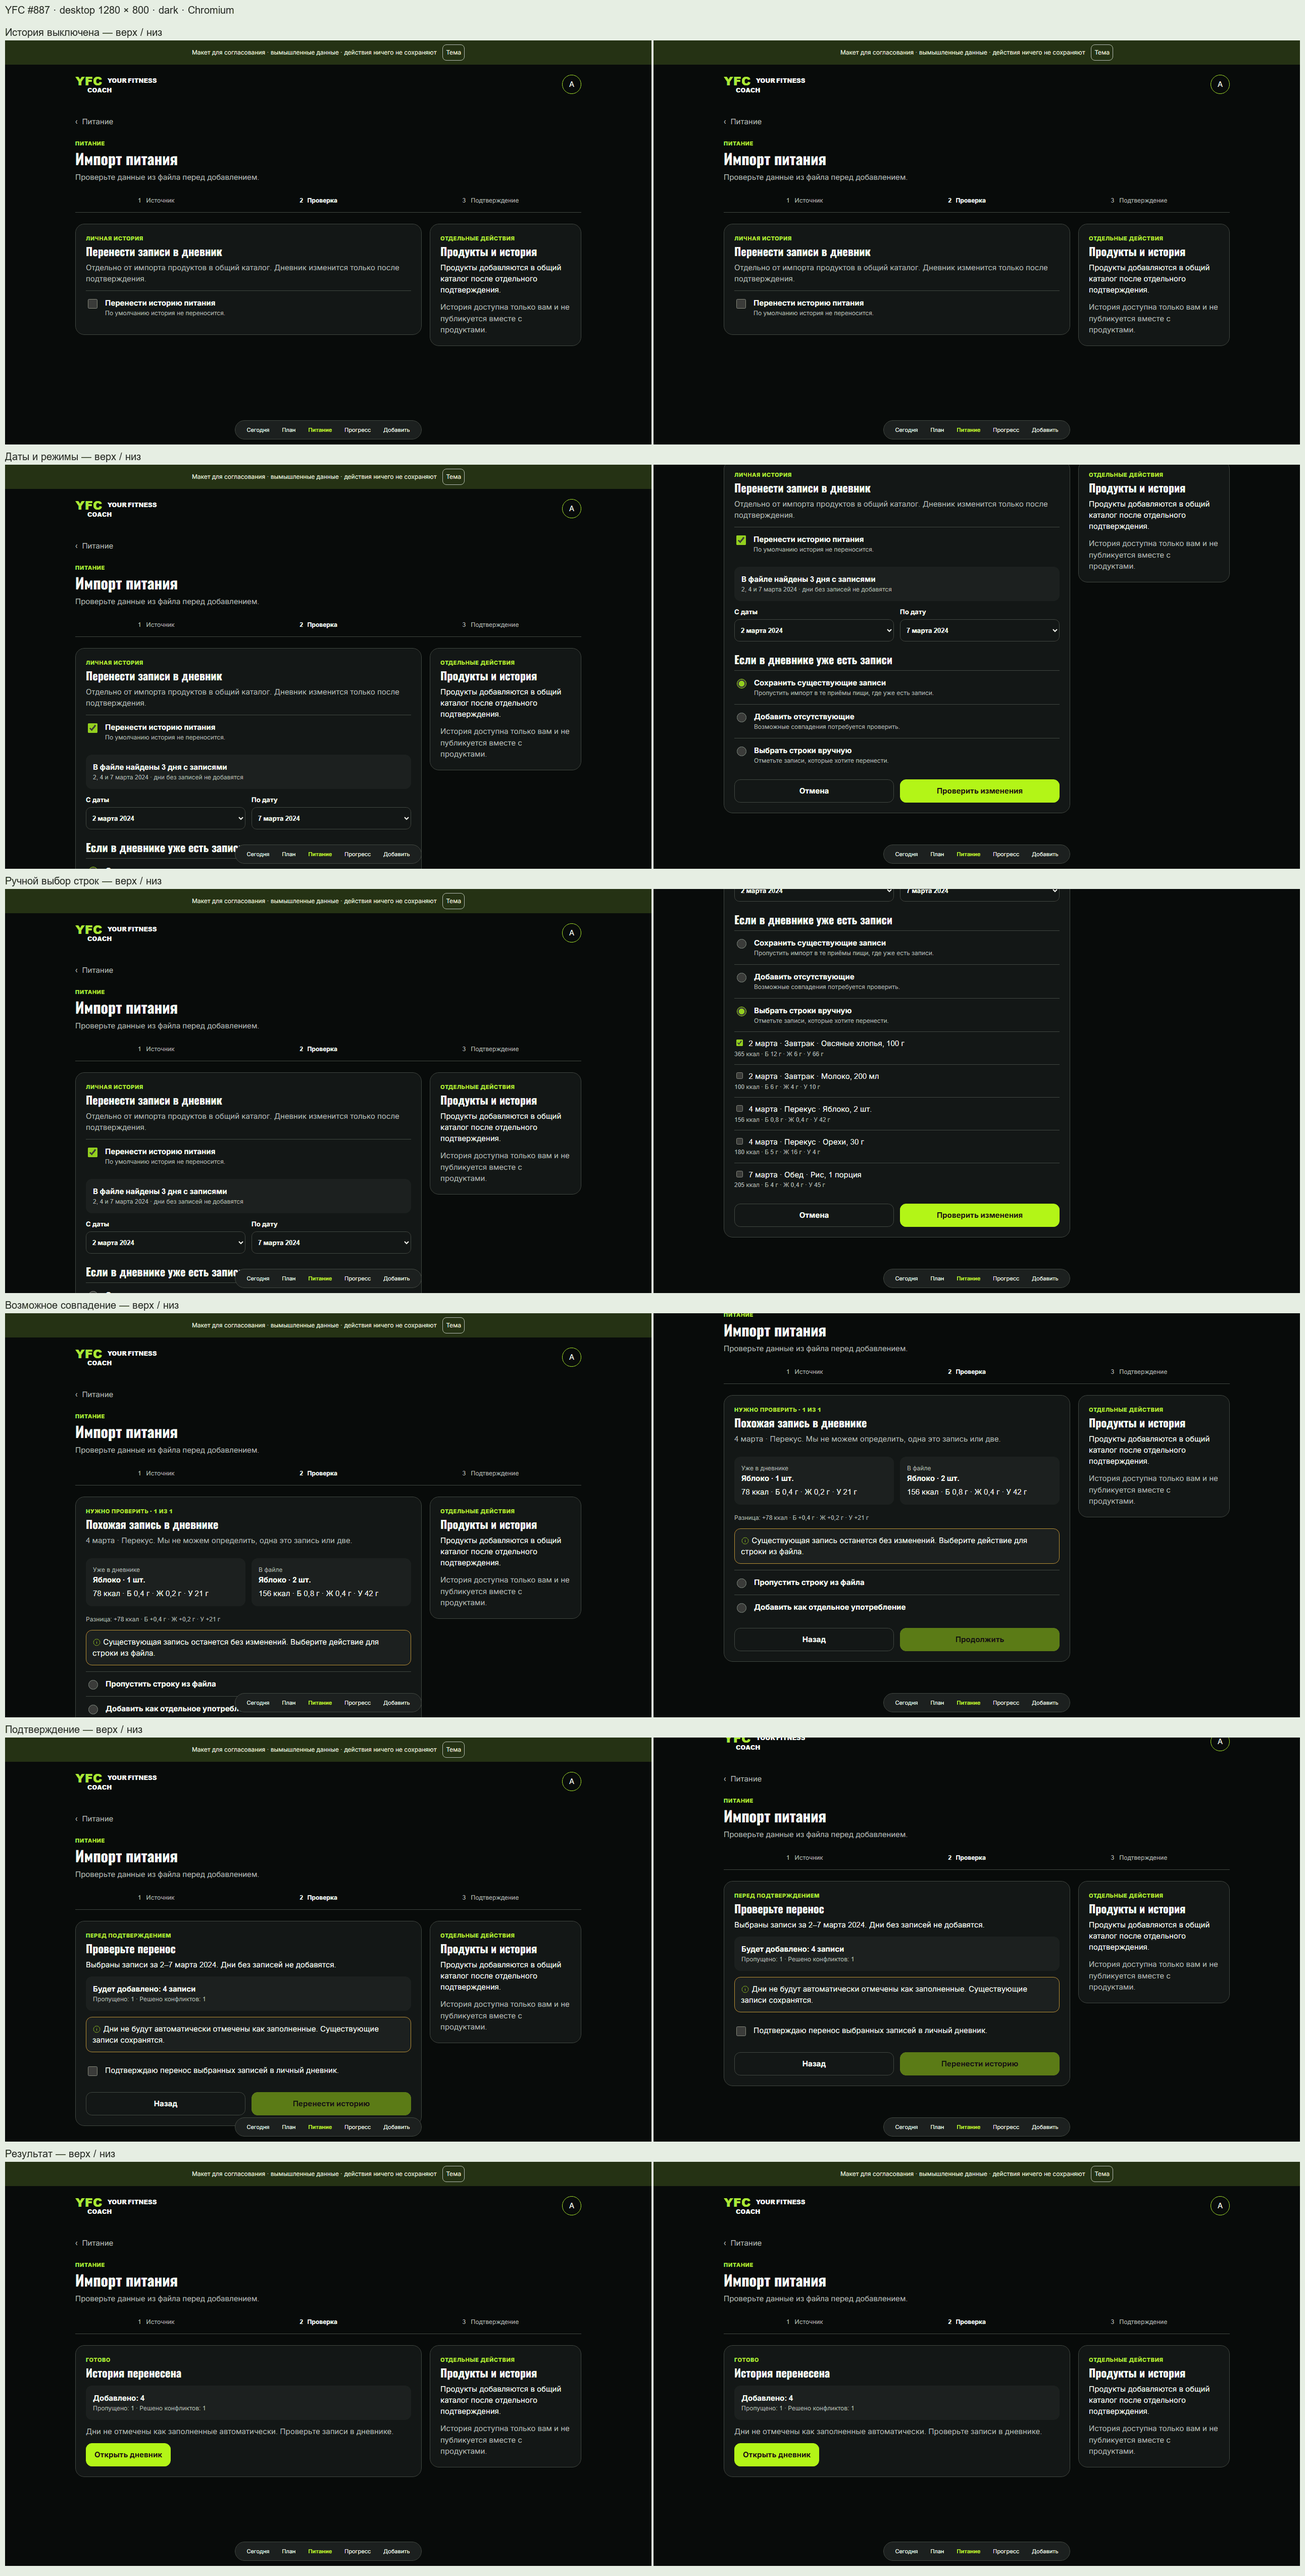
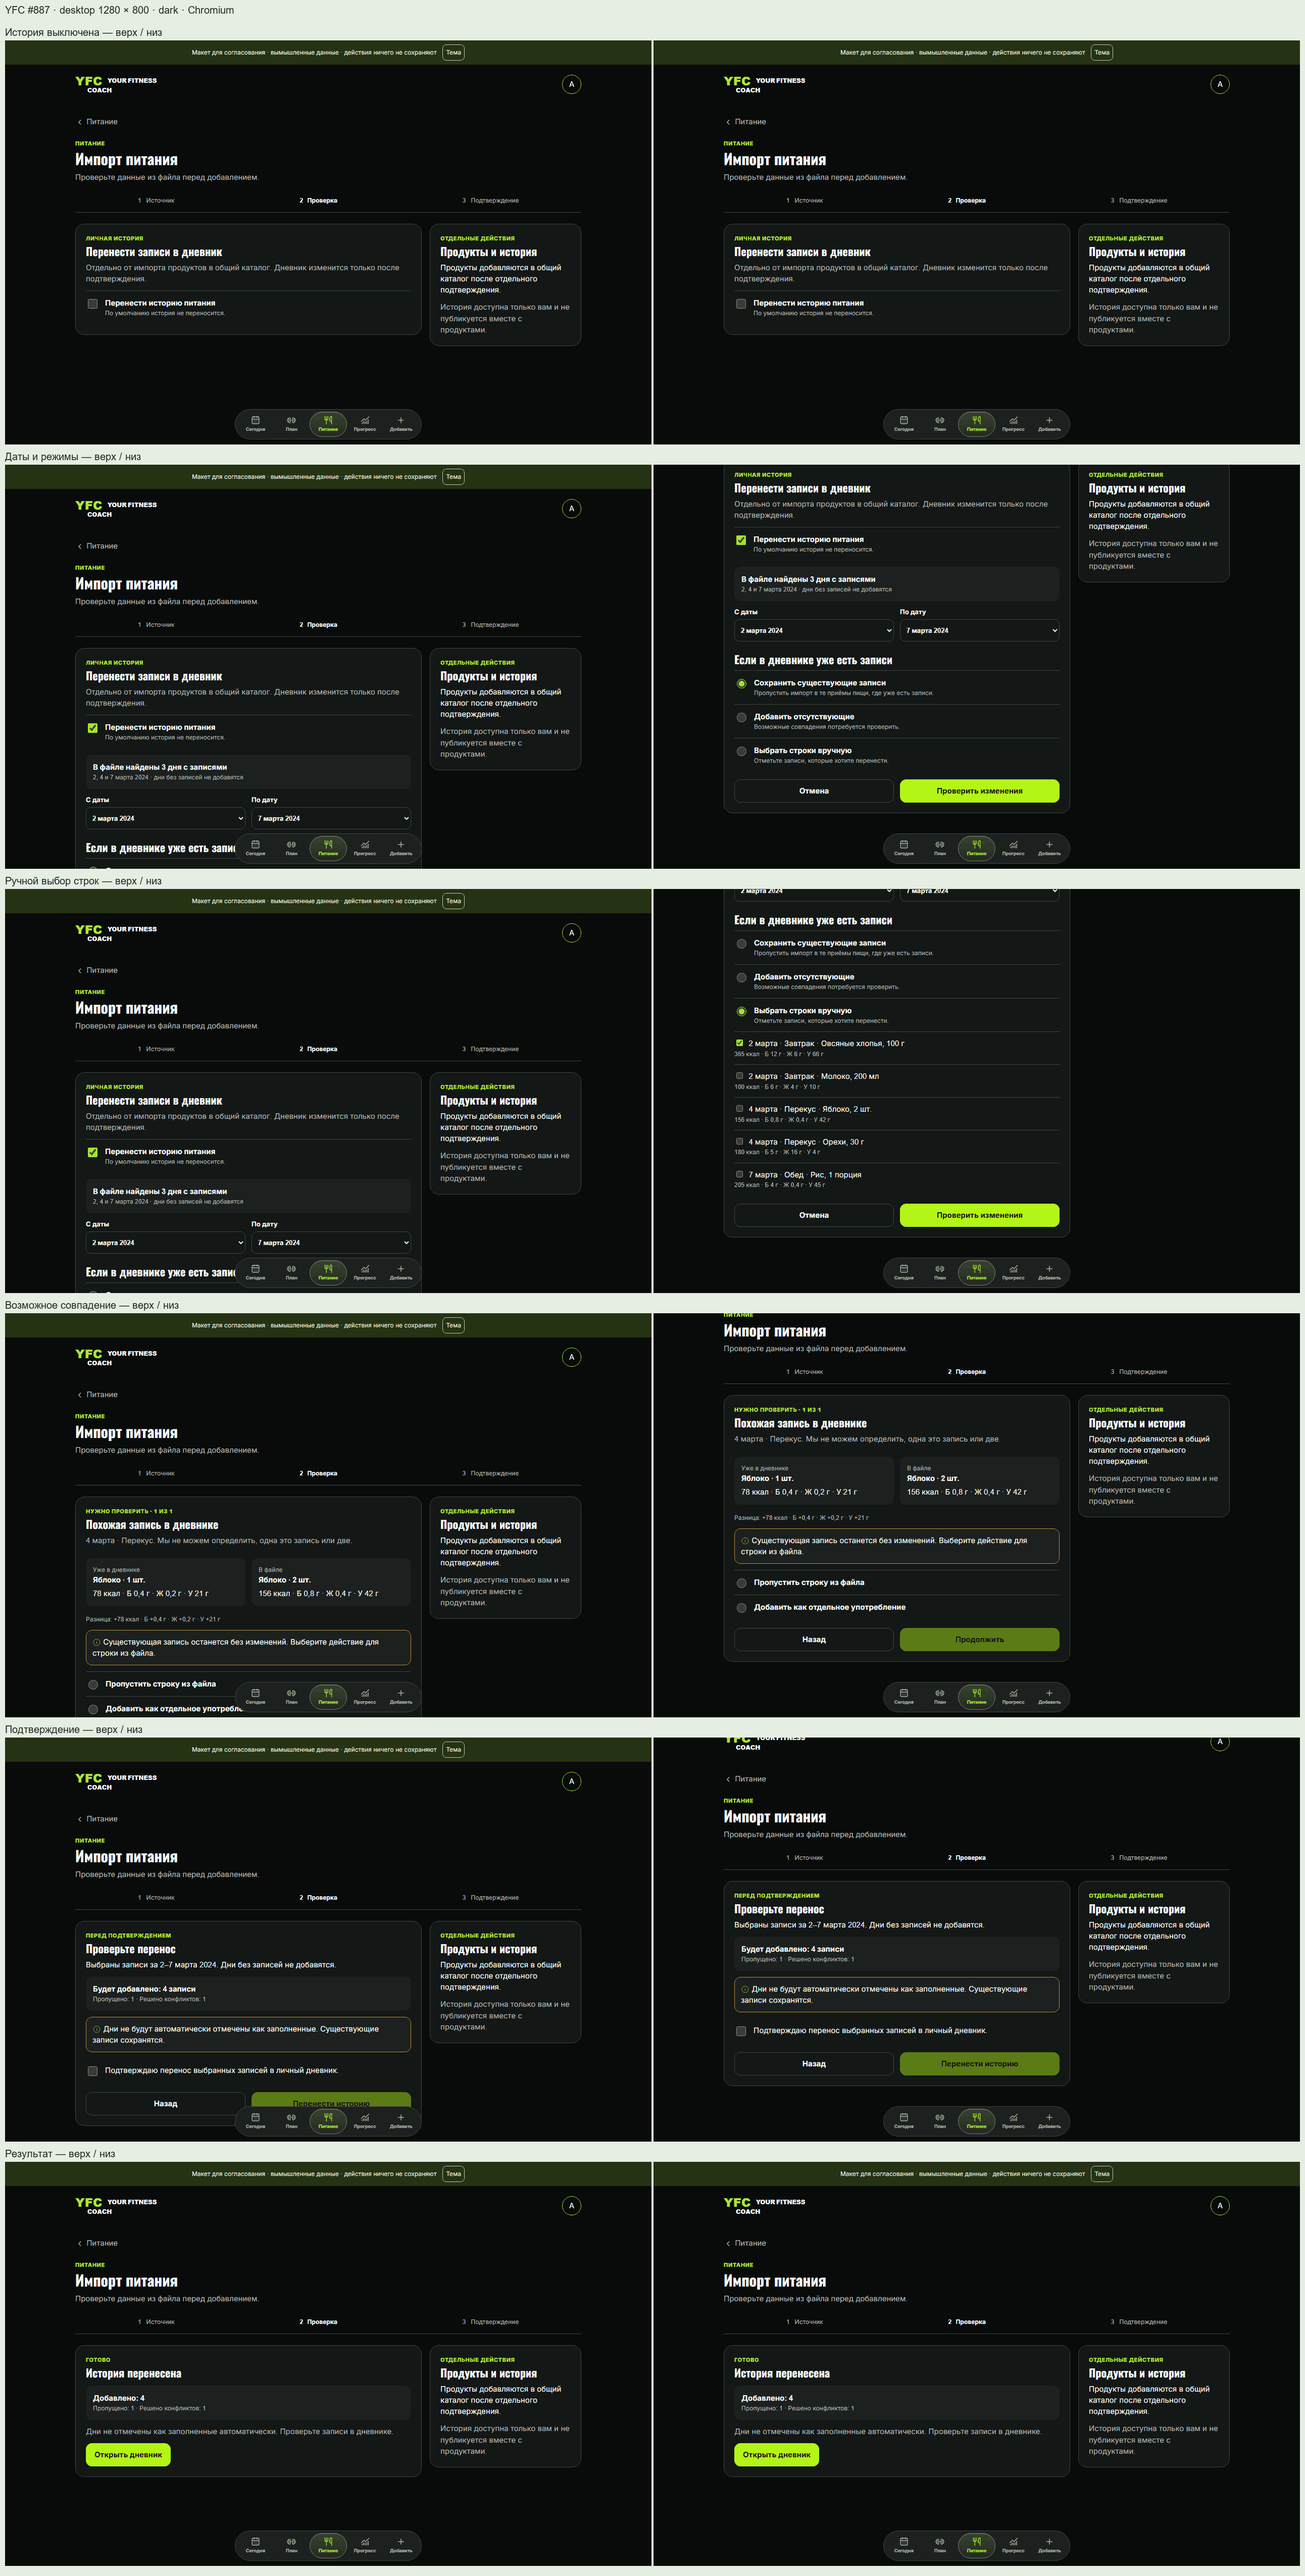
design: align history prototype navigation with YFC

diff --git a/docs/ux-proposals/issue-887-history/prototype.html b/docs/ux-proposals/issue-887-history/prototype.html
@@ -9,6 +9,7 @@
 :root.light{color-scheme:light;--bg:#f5f7f3;--surface:#fff;--soft:#eef1ec;--text:#171b17;--muted:#535d54;--border:#c8cec6;--lime:#b3f517;--accent-text:#496e00;--ink:#101500}
 *{box-sizing:border-box}body{margin:0;background:var(--bg);color:var(--text);font:15px/1.48 Inter,Arial,sans-serif}button,select,input{font:inherit}button,select{cursor:pointer}button:focus-visible,select:focus-visible,input:focus-visible{outline:3px solid #a8dc48;outline-offset:3px}
 .demo{padding:8px 16px;display:flex;justify-content:center;align-items:center;gap:12px;text-align:center;background:#253214;color:#e5f3d9;font-size:12px}.demo button{border:1px solid #b7ccac;border-radius:8px;background:transparent;color:inherit;padding:6px}.shell{max-width:1050px;margin:auto;padding:20px 24px 110px}header{display:flex;align-items:center;justify-content:space-between;margin-bottom:44px}.brand{font-size:12px;font-weight:900;line-height:1.05}.brand strong{color:var(--accent-text);font-size:24px;vertical-align:middle;margin-right:8px}.avatar{border:1px solid #a7d828;border-radius:50%;width:38px;height:38px;display:grid;place-items:center}.back{color:var(--muted);margin-bottom:24px}.eyebrow{color:var(--accent-text);font-size:11px;font-weight:800;letter-spacing:.05em;text-transform:uppercase}h1,h2{font-family:Oswald,'Arial Narrow',sans-serif;line-height:1.2;margin:4px 0 8px}h1{font-size:30px}h2{font-size:22px}p{margin:5px 0 12px}.muted{color:var(--muted)}.steps{display:flex;justify-content:space-around;border-bottom:1px solid var(--border);padding:14px 0;margin-bottom:22px;font-size:12px;color:var(--muted)}.steps b{color:var(--text)}.layout{display:grid;grid-template-columns:minmax(0,1fr) 300px;gap:16px;align-items:start}.stack{display:grid;gap:16px}.panel{border:1px solid var(--border);border-radius:18px;padding:20px;background:var(--surface)}.soft{background:var(--soft);border-radius:12px;padding:14px;margin:12px 0}.panel p:last-child{margin-bottom:0}.row{display:flex;justify-content:space-between;align-items:center;gap:12px}.option{display:flex;align-items:flex-start;gap:12px;padding:13px 0;border-top:1px solid var(--border)}.option:first-of-type{border-top:0}input{accent-color:#9bd313}.option input{width:19px;height:19px;flex:none}.option label{flex:1}.option small,.tiny{display:block;color:var(--muted);font-size:12px}.formgrid{display:grid;grid-template-columns:1fr 1fr;gap:12px}.field{display:grid;gap:5px;font-size:13px;font-weight:700}.field select{width:100%;min-height:44px;border:1px solid var(--border);border-radius:10px;background:var(--surface);color:var(--text);padding:8px}.data{font-variant-numeric:tabular-nums}.entry{border-top:1px solid var(--border);padding:12px 0}.pill{font-size:11px;border:1px solid var(--border);border-radius:20px;padding:4px 8px;white-space:nowrap}.warning{border:1px solid #b89034;background:var(--soft);border-radius:12px;padding:12px;margin:12px 0}.warning svg{vertical-align:middle;color:var(--accent-text)}.actions{display:flex;gap:12px;margin-top:16px}.btn{min-height:46px;border:1px solid var(--border);border-radius:12px;padding:9px 16px;font-weight:700;color:var(--text);background:transparent}.primary{background:var(--lime);color:var(--ink);border-color:var(--lime)}.actions .btn{flex:1}.btn:disabled{opacity:.45;cursor:not-allowed}.two{display:grid;grid-template-columns:1fr 1fr;gap:12px}.dock{position:fixed;bottom:10px;left:50%;transform:translateX(-50%);width:min(370px,calc(100% - 32px));display:flex;justify-content:space-around;border:1px solid var(--border);border-radius:999px;padding:10px;background:var(--soft);font-size:11px}.dock strong{color:var(--accent-text)}
+.dock{padding:4px;min-height:60px;align-items:stretch}.dock span{flex:1;display:flex;flex-direction:column;align-items:center;justify-content:center;gap:2px;min-width:0;border-radius:999px;color:var(--muted);font-size:9px;font-weight:700}.dock .selected{color:var(--accent-text);border:1px solid #779b45;background:linear-gradient(180deg,rgba(148,176,102,.23),rgba(118,145,81,.09));box-shadow:inset 0 1px rgba(255,255,255,.12)}.dock svg{width:18px;height:18px;fill:none;stroke:currentColor;stroke-width:1.8;stroke-linecap:round;stroke-linejoin:round}.back svg{vertical-align:middle}
 @media(max-width:700px){.shell{padding:18px 16px 100px}header{margin-bottom:34px}.layout{grid-template-columns:1fr}.aside{order:2}.panel{padding:16px}.two{grid-template-columns:1fr}.actions{display:grid;grid-template-columns:1fr 1fr}}
 </style>
 </head>
@@ -16,7 +17,7 @@
 <div class="demo"><span>Макет для согласования · вымышленные данные · действия ничего не сохраняют</span><button id="theme">Тема</button></div>
 <main class="shell">
 <header><div class="brand"><strong>YFC</strong> YOUR FITNESS<br>　　COACH</div><span class="avatar">А</span></header>
-<div class="back">‹ &nbsp;Питание</div>
+<div class="back"><svg width="18" height="18" viewBox="0 0 24 24" fill="none" stroke="currentColor" stroke-width="1.8" aria-hidden="true"><path d="m15 18-6-6 6-6"/></svg> Питание</div>
 <div class="eyebrow">Питание</div><h1>Импорт питания</h1><p class="muted">Проверьте данные из файла перед добавлением.</p>
 <div class="steps"><span>1 &nbsp; Источник</span><b>2 &nbsp; Проверка</b><span>3 &nbsp; Подтверждение</span></div>
 <div class="layout"><div class="stack">
@@ -69,7 +70,12 @@
  <div class="eyebrow">Результат проверки</div><h2>Возможный повторный перенос</h2><p>Похожие строки уже встречались в вашем импорте. Проверьте их перед добавлением, чтобы не посчитать питание дважды.</p><div class="soft"><strong>Проверить: 2 строки</strong><span class="tiny">Существующие записи не изменены</span></div><button class="btn primary">Проверить совпадения</button>
 </section>
 </div><aside class="panel aside"><div class="eyebrow">Отдельные действия</div><h2>Продукты и история</h2><p>Продукты добавляются в общий каталог после отдельного подтверждения.</p><p class="muted">История доступна только вам и не публикуется вместе с продуктами.</p></aside></div>
-</main><nav class="dock" aria-label="Навигация"><span>Сегодня</span><span>План</span><strong>Питание</strong><span>Прогресс</span><span>Добавить</span></nav>
+</main><nav class="dock" aria-label="Навигация">
+<span><svg viewBox="0 0 24 24" aria-hidden="true"><path d="M8 2v3M16 2v3"/><rect x="3" y="3" width="18" height="18" rx="2"/><path d="M3 9h18M8 13h.01M12 13h.01M16 13h.01M8 17h.01M12 17h.01M16 17h.01"/></svg>Сегодня</span>
+<span><svg viewBox="0 0 24 24" aria-hidden="true"><g transform="scale(.09375)" fill="currentColor" stroke="none"><path d="M248,120h-8V88a16,16,0,0,0-16-16H208V64a16,16,0,0,0-16-16H168a16,16,0,0,0-16,16v56H104V64A16,16,0,0,0,88,48H64A16,16,0,0,0,48,64v8H32A16,16,0,0,0,16,88v32H8a8,8,0,0,0,0,16h8v32a16,16,0,0,0,16,16H48v8a16,16,0,0,0,16,16H88a16,16,0,0,0,16-16V136h48v56a16,16,0,0,0,16,16h24a16,16,0,0,0,16-16v-8h16a16,16,0,0,0,16-16V136h8a8,8,0,0,0,0-16ZM32,168V88H48v80Zm56,24H64V64H88V192Zm104,0H168V64h24V175.82c0,.06,0,.12,0,.18s0,.12,0,.18V192Zm32-24H208V88h16Z"/></g></svg>План</span>
+<span class="selected" aria-current="page"><svg viewBox="0 0 24 24" aria-hidden="true"><path d="M3 2v7c0 1.1.9 2 2 2h4a2 2 0 0 0 2-2V2M7 2v20M21 15V2a5 5 0 0 0-5 5v6c0 1.1.9 2 2 2h3Zm0 0v7"/></svg>Питание</span>
+<span><svg viewBox="0 0 24 24" aria-hidden="true"><path d="M12 16v5M16 14.639V21M20 10.656V21m2-18-8.646 8.646a.5.5 0 0 1-.708 0L9.354 8.354a.5.5 0 0 0-.707 0L2 15M4 18.463V21M8 14.656V21"/></svg>Прогресс</span>
+<span><svg viewBox="0 0 24 24" aria-hidden="true"><path d="M5 12h14M12 5v14"/></svg>Добавить</span></nav>
 <script>
 const $=id=>document.getElementById(id); const show=id=>{for(const v of ['selection','conflict','review','result','empty','uncertain','stale','repeat']) $(v).hidden=v!==id;window.scrollTo(0,0)};
 $('theme').onclick=()=>document.documentElement.classList.toggle('light');
